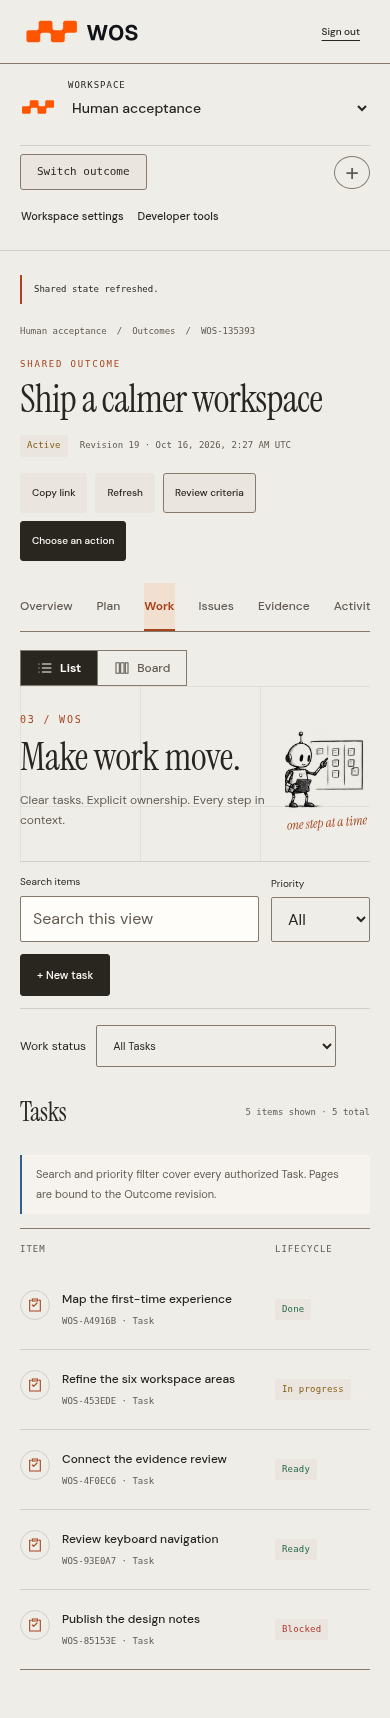
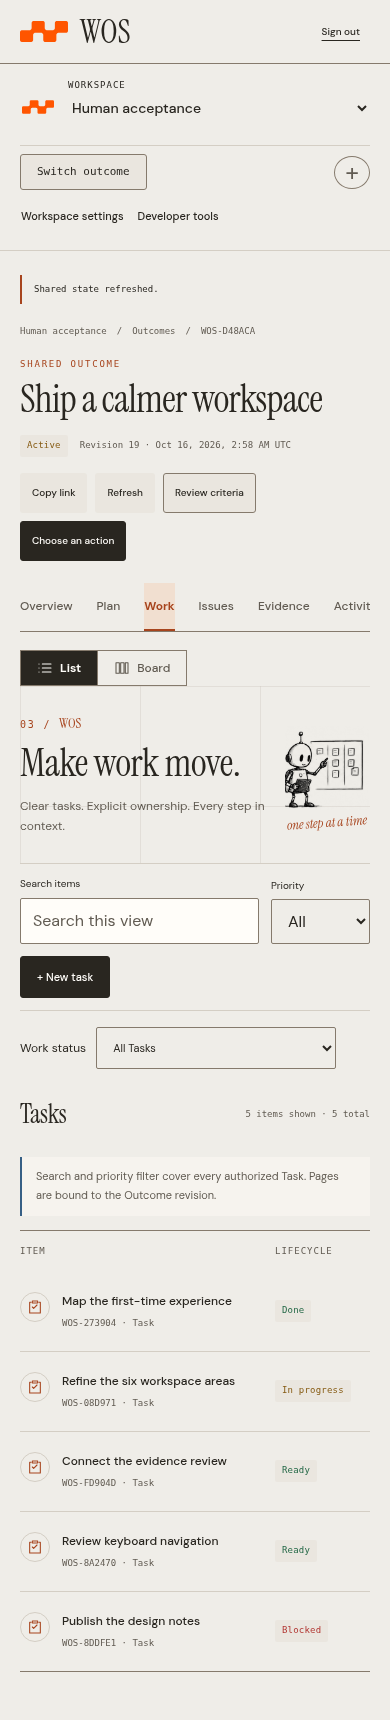
docs(design): refresh WOS typography guidance and page captures

diff --git a/docs/design/editorial/brand-kit/README.md b/docs/design/editorial/brand-kit/README.md
@@ -1,13 +1,13 @@
 # WOS web identity integration
 
-The owner supplied `WOS_Web_Brand_Kit.zip` as the WOS brand. This integration adopts its modular symbol and vector wordmark while retaining the approved editorial composition, robot illustrations, and Woobe operational palette.
+The owner supplied `WOS_Web_Brand_Kit.zip` as the WOS brand and subsequently directed that the name WOS follow the site's existing typography. This integration pairs the supplied modular symbol with live Instrument Serif lettering, retaining the approved editorial composition, robot illustrations, and Woobe operational palette.
 
 ## What the kit establishes
 
 - A single master silhouette with a 194 × 82 aspect ratio. The same path data appears in all 80 supplied SVGs; each application supplies its own placement transform and viewBox.
 - Brand orange `#FF5500`, consistent with the existing brand token. It identifies the WOS mark, separately from the interaction copper `#A7441D`.
 - Light/dark, monochrome, browser icon, navigation, social, pattern, illustration, and loading assets.
-- The kit describes the wordmark lockups as web proposals with Inter Display Bold converted to paths. The supplied horizontal Light version is adopted here as a provided vector lockup; this does not declare Inter an independently certified UI font. Instrument Serif and DM Sans remain the site's typography.
+- The kit describes the wordmark lockups as web proposals with Inter Display Bold converted to paths. Those originals remain in the library as references. The owner's later instruction takes precedence: the visible name WOS uses Instrument Serif, the same display face as the editorial headings, with DM Sans retained for utility text.
 - The kit's auxiliary neutrals are suggestions. Its demo token stylesheet is not imported over the approved Woobe palette.
 
 The [original README](README.source.md) and [original SVG index](ASSET_INDEX.source.txt) are retained unchanged. The preview below came with the kit; it is a reference sheet, not a screenshot of the running site.
@@ -18,7 +18,8 @@ The [original README](README.source.md) and [original SVG index](ASSET_INDEX.sou
 
 | Placement | Supplied asset | Integration |
 | --- | --- | --- |
-| Header | `02-logotipos/wos-horizontal-light.svg` | Replaces the temporary italic-w/circle wordmark; intrinsic proportions preserved at 164 px desktop and 132 px mobile |
+| Header | `01-marca/wos-symbol-primary.svg` plus live WOS text | Original 194 × 82 symbol at 60 px desktop and 48 px mobile; Instrument Serif regular name at 36 px and 32 px respectively |
+| Other product-name mentions | Live WOS text in `.product-name` | Instrument Serif regular in all six chapter labels, the no-JavaScript notice, and the checkpoint's local-changes message; authored content is preserved |
 | Workspace identity | `04-navegacao/wos-sidebar-light.svg` | Replaces the temporary letter W beside the namespace selector |
 | Modern favicon | `03-favicon-app/favicon.svg` | Served byte for byte at the existing `/app/favicon.svg` URL |
 | Browser fallbacks | `12-png-web/favicon.ico`, `favicon-32.png` | Declared as real icon resources in the document head |
@@ -26,7 +27,7 @@ The [original README](README.source.md) and [original SVG index](ASSET_INDEX.sou
 | Browser application identity | Application name WOS and theme color `#FF5500` | Uses the supplied brand color for browser chrome |
 | Actual Outcome loading | `01-marca/wos-symbol-primary.svg` | Static master symbol beside the existing live status; visible only while the server read is pending |
 
-The header link retains the accessible name **WOS · home**. Images repeating that identity or nearby status text use empty alternatives. The wordmark does not depend on a browser font, and no image is stretched, cropped, redrawn, or recolored. The loading mark adds no artificial wait or animation requirement.
+The header link retains the accessible name **WOS · home**. Images repeating that identity or nearby status text use empty alternatives. The name uses the existing locally served Instrument Serif font with Georgia/Times/serif fallbacks. No supplied image is stretched, cropped, redrawn, or recolored. Browser metadata remains plain text. The loading mark adds no artificial wait or animation requirement.
 
 ## Asset library and provenance
 
@@ -36,6 +37,6 @@ The existing robots and locally served fonts remain unchanged. The kit's catalog
 
 ## Verification and page captures
 
-The brand browser test checks the accessible home link, loaded wordmark, original aspect ratio, usable width, and absence of page overflow at 1440, 390, and 320 px. It decodes every declared browser/touch icon and checks the compatibility favicon against the supplied bytes. A held continuity response demonstrates that the brand loading state follows a real pending request and disappears after it completes.
+The brand browser test checks the accessible home link, loaded symbol, original aspect ratio, readable live name, and absence of page overflow at 1440, 390, and 320 px. It verifies that the name uses the loaded Instrument Serif face at weight 400, matching the editorial heading and chapter label. The chapter gallery checks the WOS label in all six areas. The test also decodes every declared browser/touch icon and checks the compatibility favicon against the supplied bytes. A held continuity response demonstrates that the brand loading state follows a real pending request and disappears after it completes.
 
 See the refreshed [main-page gallery](../README.md#main-pages), including [the controlled loading capture](../screenshots/14-outcome-loading.png), and the [validation record](../validation.md). The loading screenshot uses a test-held response solely to capture the existing asynchronous state; the application has no deliberate delay.

diff --git a/docs/design/editorial/validation.md b/docs/design/editorial/validation.md
@@ -10,7 +10,7 @@ Validated locally on 2026-10-15 (America/Sao_Paulo), against a built native WOS 
 | Browser unit tests | 14 passed | Action permissions, exact-intent handling, official copy, and six-area routing; the locale gate now includes `editorial.js` |
 | Complete browser suite | 37 passed, no skips | Includes five editorial/palette/brand tests and the 32 existing browser journeys |
 | Woobe palette | Passed | All 25 Light color tokens match the supplied README; browser assertions cover canvas, copper text/focus, charcoal primary/hover, selection, success, warning, and error roles |
-| Supplied WOS brand | Passed | 94 media files preserved byte for byte; all 80 SVGs retain the master path. Browser checks verify readable, undistorted logos at 1440/390/320 px, decode declared SVG/PNG/ICO/Apple icons, compare the compatibility favicon, and exercise actual request loading |
+| Supplied WOS brand | Passed | 94 media files preserved byte for byte; all 80 SVGs retain the master path. Browser checks verify the undistorted symbol and live WOS name in Instrument Serif regular, matching editorial headings at 1440/390/320 px and the chapter label. All six chapter labels and the no-JavaScript product mention are checked. Declared SVG/PNG/ICO/Apple icons decode, the compatibility favicon matches, and actual request loading is exercised |
 | Automated accessibility | Passed within the browser suite | axe login, overview, common Task form, and reference combobox: no critical/serious violations in the configured WCAG 2/2.1/2.2 AA tag set; this is not a claim of complete conformance |
 | Keyboard and reflow | Passed | Creation, reference selection, confirmation, focus restoration, mobile actions, 200% and 400% equivalent reflow |
 | Editorial layout matrix | Passed | All six areas at 1920 × 1080, 1440 × 900, 1280 × 800, 768 × 1024, 390 × 844, 360 × 740, and 320 × 740; no page-level horizontal overflow |
@@ -24,7 +24,7 @@ Validated locally on 2026-10-15 (America/Sao_Paulo), against a built native WOS 
 
 The gallery was generated by `editorial.spec.mjs` through public commands against a fresh database. It contains synthetic example titles and state, with no user credentials or external customer data. The chapter capture test checks loaded artwork and unexpected console/page errors. The signed-out namespace discovery's expected 401 is distinguished from an asset or application failure.
 
-The current gallery combines the approved editorial composition, Woobe Light colors, and the supplied WOS identity. The palette README is archived byte for byte in [woobe-palette-source.md](woobe-palette-source.md), with separate [brand provenance](brand-kit/README.md). Robot and font hashes were checked against the original asset manifest and remain unchanged. Build, the three targeted Go package tests, and vet were repeated after the brand integration. The broader Go suite below records the earlier complete run; it was not repeated for these presentation refinements.
+The current gallery combines the approved editorial composition, Woobe Light colors, the supplied WOS symbol, and the owner's requested editorial typography for the name WOS. The palette README is archived byte for byte in [woobe-palette-source.md](woobe-palette-source.md), with separate [brand provenance](brand-kit/README.md). Robot and font hashes were checked against the original asset manifest and remain unchanged. Build, the three targeted Go package tests, and vet were repeated after the typography correction. The broader Go suite below records the earlier complete run; it was not repeated for these presentation refinements.
 
 ## Broader Go suite: existing failure
 
@@ -41,7 +41,7 @@ This UI work leaves the historical fixture, system time, assertions, and domain 
 
 ## Limits
 
-- The 37 browser tests passed together in the final brand integration run. An earlier stale-cursor test encountered a timing failure during the original redesign and then passed in isolation and subsequent complete runs; its assertions and production reference-picker logic were preserved.
+- The 37 browser tests passed together in the final typography correction run. An earlier stale-cursor test encountered a timing failure during the original redesign and then passed in isolation and subsequent complete runs; its assertions and production reference-picker logic were preserved.
 - Chromium/Linux automation and the listed viewport matrix do not certify other browser engines, physical devices, production deployment, or PostgreSQL parity.
 - Screen-reader evaluation, representative-user review, visual approval by the owner, and full manual accessibility acceptance remain pending.
 - Authored text in other scripts uses system fallbacks; the vendored Latin fonts match the official English interface.

diff --git a/docs/design/editorial/README.md b/docs/design/editorial/README.md
@@ -14,7 +14,7 @@ This is a presentation change to the six existing areas, authentication screen, 
 | Interaction | Copper `#A7441D` for links, relevant accents, and keyboard focus; selected surface `#F1DFD0` | Same roles, with explicit selected states |
 | Primary actions | Charcoal `#292620`, hover `#403A32`, and on-primary text `#FFFDF9` | Same contrast and interaction states |
 | Semantic state | Success `#246846`, warning `#865B13`, error `#B23834`, and info `#365F85`; every badge retains a text label | Meaning never relies on color alone |
-| Brand | Supplied modular symbol and vector wordmark in `#FF5500`, with official browser icons; distinct from interaction copper | Wordmark proportions preserved; robot artwork remains monochrome |
+| Brand | Supplied modular symbol in `#FF5500` beside the live name WOS in Instrument Serif; official browser icons; distinct from interaction copper | Original symbol proportions and readable editorial lettering; robot artwork remains monochrome |
 | Robot vignettes | User-supplied monochrome pen-and-ink illustrations; each chapter has a relevant action | Smaller, reserved space alongside the introduction |
 | Marginal notes | Brief italic annotations attached to the illustrations | Remain decorative and outside control hit areas |
 | Motion | A small decorative arrival; content is visible in its final composition immediately | No parallax or pinned scrolling; reduced motion disables animation |
@@ -31,7 +31,7 @@ The palette overrides the original gray/green color suggestions in `chess-style`
 
 ### WOS brand kit
 
-The supplied WOS identity replaces the temporary letter/circle branding in the header, workspace selector, browser icons, and actual loading state. The vector wordmark is self-contained; it does not replace the editorial type system. All 94 supplied media files are retained unchanged in the brand library. See [integration decisions, original kit notes, and asset provenance](brand-kit/README.md).
+The supplied WOS identity replaces the temporary letter/circle branding in the header, workspace selector, browser icons, and actual loading state. Following the owner's typography correction, the header combines the original orange symbol with WOS rendered as live Instrument Serif text. Chapter labels, the no-JavaScript notice, and the checkpoint message use the same editorial treatment for the product name. Browser titles and accessible names retain their plain text. All 94 supplied media files remain unchanged in the brand library, including the kit's proposed Inter wordmarks, which are references rather than active UI lockups. See [integration decisions, original kit notes, and asset provenance](brand-kit/README.md).
 
 Typography is served from the WOS binary. Vendored fonts are from `@fontsource/instrument-serif@5.3.0` and `@fontsource-variable/dm-sans@5.3.0`, distributed under the SIL Open Font License with notices in `packages/wos-api/web/assets/fonts/`. No browser request to a font service is required, and no production JavaScript package was added.
 

diff --git a/ROADMAP.md b/ROADMAP.md
@@ -58,7 +58,7 @@ The architecture document describes what should exist. This ROADMAP records what
 - [x] Preserve existing scoped actions, explicit lifecycle changes, independent review, URL navigation, and API contracts.
 - [x] Serve licensed font assets locally with system fallbacks; preserve the supplied skill packages and robot artwork.
 - [x] Document the visual system, art direction, asset provenance, and page gallery generated from an isolated real-server dataset.
-- [x] Apply the supplied WOS web identity to the header, workspace selector, browser/touch icons, and actual request-loading state; preserve the 94 original media assets and master silhouette in all 80 SVGs. Retain the approved editorial composition and Woobe operational palette.
+- [x] Apply the supplied WOS web identity to the header, workspace selector, browser/touch icons, and actual request-loading state; preserve the 94 original media assets and master silhouette in all 80 SVGs. Follow the owner's typography correction: the original symbol accompanies live WOS lettering in Instrument Serif, also used for product-name mentions across the interface. Retain the approved editorial composition and Woobe operational palette.
 - [x] Complete final presentation validation: 37 browser tests and 14 browser unit tests passed, including palette and brand checks; targeted Go tests and vet passed. Refresh the 14 page/state captures. Record the earlier broader suite's existing expired-fixture failure and its 75 skips separately in [validation](docs/design/editorial/validation.md); do not claim an entirely green Go suite.
 - [ ] Independent human review, screen-reader validation, and other-browser acceptance; not implied by automated checks or screenshots.
 

diff --git a/CHANGELOG.md b/CHANGELOG.md
@@ -3,7 +3,7 @@
 ## Unreleased
 
 - Redesign the human workspace with an editorial paper-and-ink visual system, the Woobe operational palette, locally served typography, and the supplied monochrome robot illustrations across all six areas; include responsive page captures and design documentation.
-- Apply the supplied WOS modular brand, vector wordmark, workspace symbol, real loading mark, and browser/touch icons while preserving the editorial layout and Woobe palette.
+- Apply the supplied WOS modular symbol, workspace symbol, real loading mark, and browser/touch icons; render the name WOS in the site's Instrument Serif typography while preserving the editorial layout and Woobe palette.
 
 ## 0.4.2 — prepared for release
 
